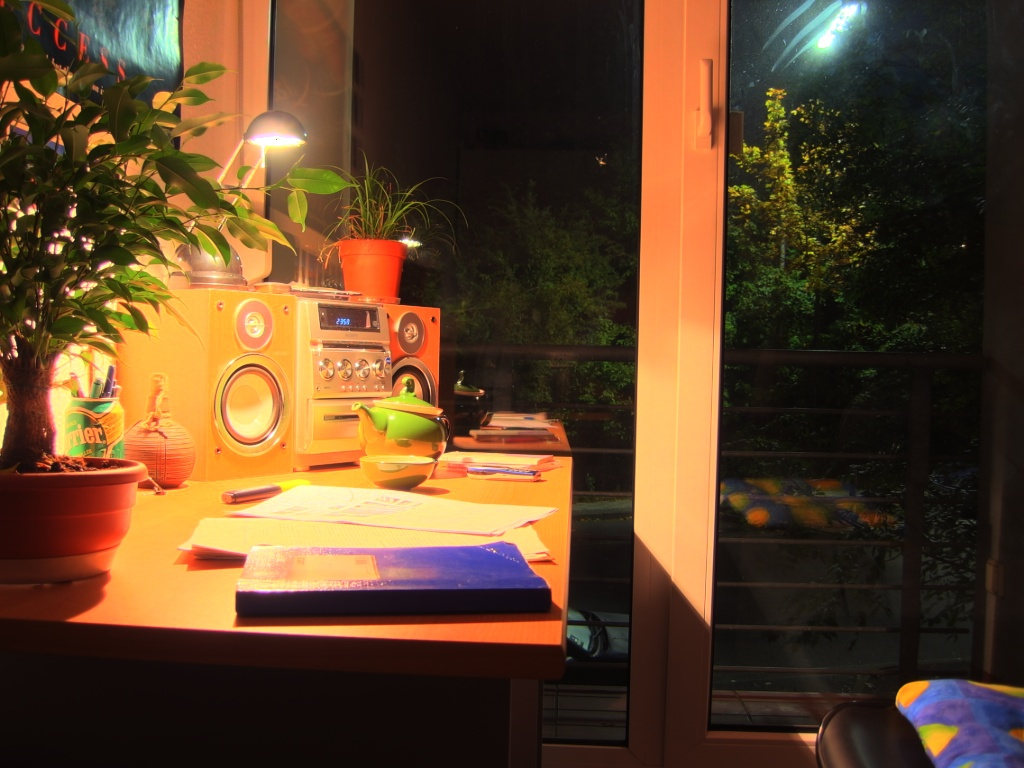
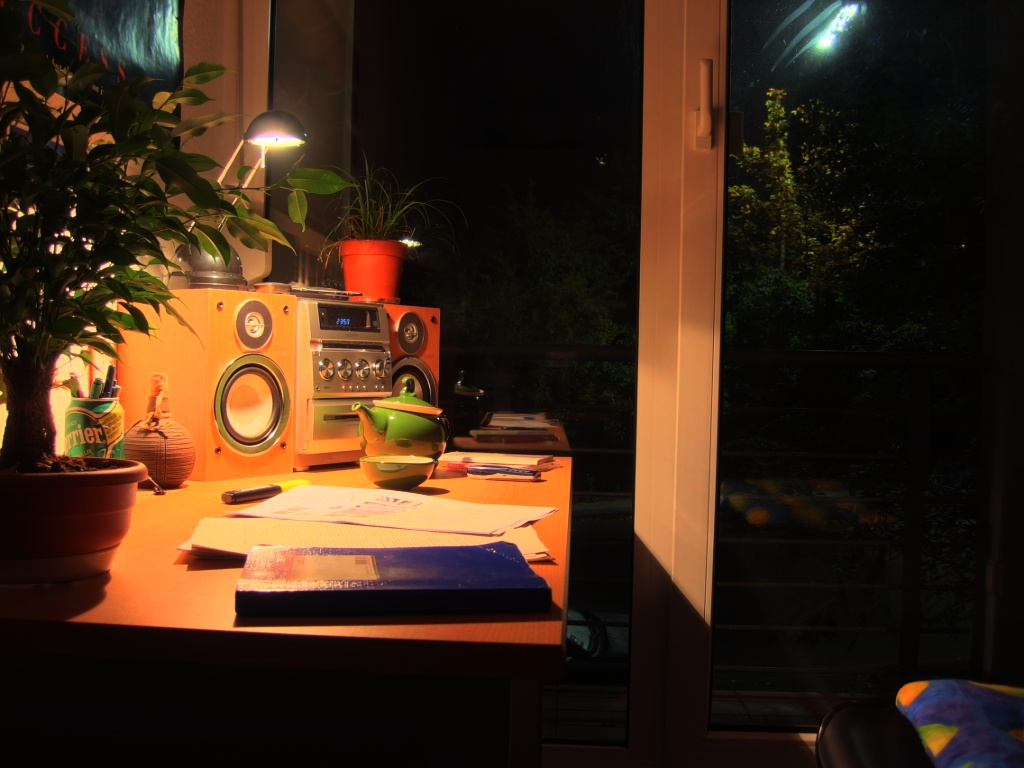
Update room result and add an argument for key

diff --git a/main.py b/main.py
@@ -19,6 +19,7 @@ def get_parser():
     parser.add_argument('-i', '--input_dir', default='./imgs', type=str, help='Folder of input images.')
     parser.add_argument('-a', '--align_img', default='True', type=str, help='Whether to align img or not.')
     parser.add_argument('-s', '--sample_method', default='uniform', type=str, help='The way to sample points [uniform / random]')
+    parser.add_argument('-k', '--scene_key', default='0.3', type=str, help='How light or dark the scene is. [0.0, 1.0]')
     return parser
 
 def imgImportFromPil(img_path: str):
@@ -133,7 +134,8 @@ if __name__ == '__main__':
 
     ## Tone mapping
     print("Start tone mapping")
-    Lw, Ld = ToneMapping.toneMapping_Reinhard_np(hdr_img, 0.3)
+    key = float(args.scene_key)
+    Lw, Ld = ToneMapping.toneMapping_Reinhard_np(hdr_img, key)
     result = ToneMapping.mapToRGB_np(Lw, Ld, hdr_img)
     
-    cv2.imwrite("ldr_0.3.jpg", result)
+    cv2.imwrite("ldr_" + str(key) + ".jpg", result)

diff --git a/ToneMapping.py b/ToneMapping.py
@@ -30,6 +30,7 @@ def toneMapping_Reinhard(radianceMap, alpha):
     # Compute Ld
     # Find maximum luminance from all pixels
     sortedLw = np.sort(Lw.flatten())
+    # The most 5000 brightest luminance will be mapped to 1
     Lwhite = sortedLw[sortedLw.shape[0] - 5000]
     print(Lwhite)
     Lwhite2 = Lwhite * Lwhite
@@ -65,8 +66,13 @@ def toneMapping_Reinhard_np(radianceMap, alpha):
     # Compute LwBar
     LwBar = math.exp(np.sum(np.log(Lw + 0.000001)) / (height * width))
 
+    # Compute Lm
     Lm = Lw * alpha / LwBar
+    
+    # Compute Ld
+    # Find maximum luminance from all pixels
     sortedLw = np.sort(Lw)
+    # The most 5000 brightest luminance will be mapped to 1
     Lwhite = sortedLw[sortedLw.shape[0] - 5000]
     Ld = (Lm * (1 + Lm / (Lwhite * Lwhite))) / (1 + Lm)
     
